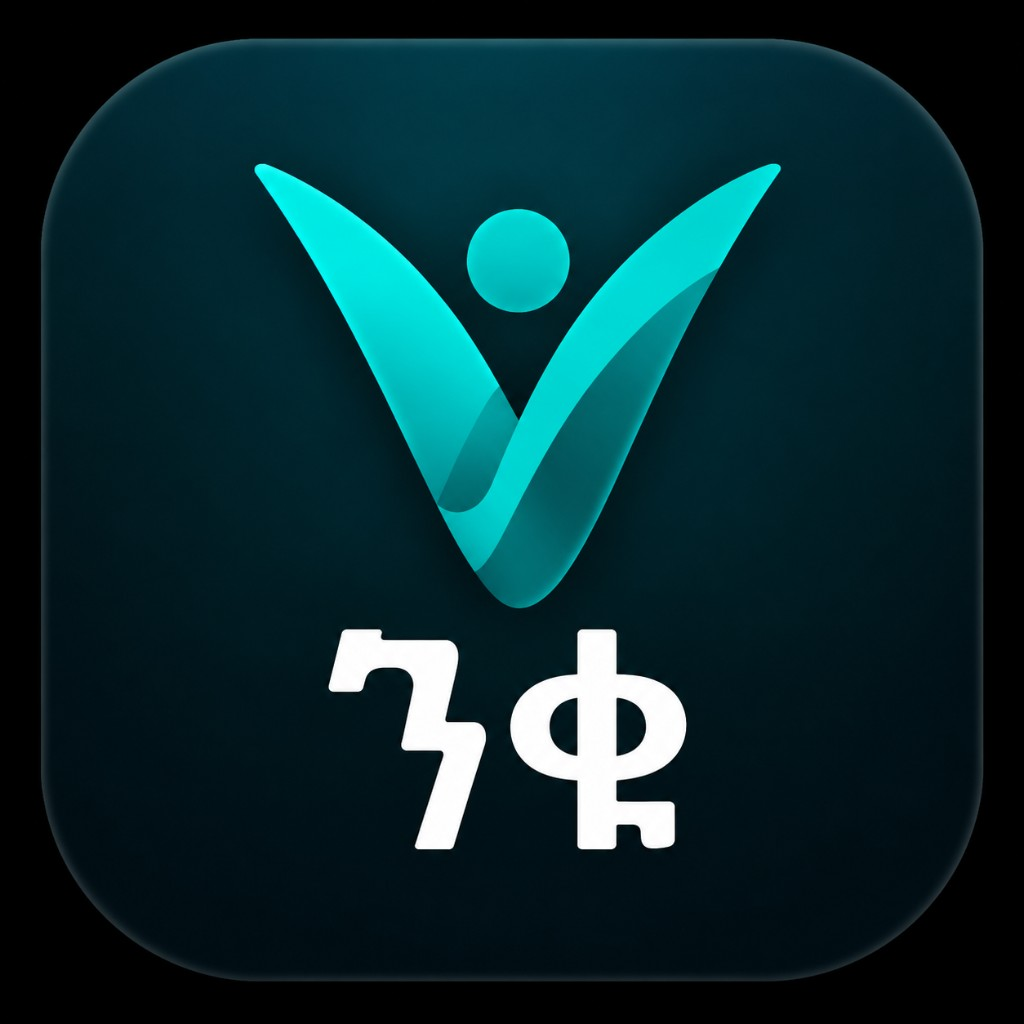
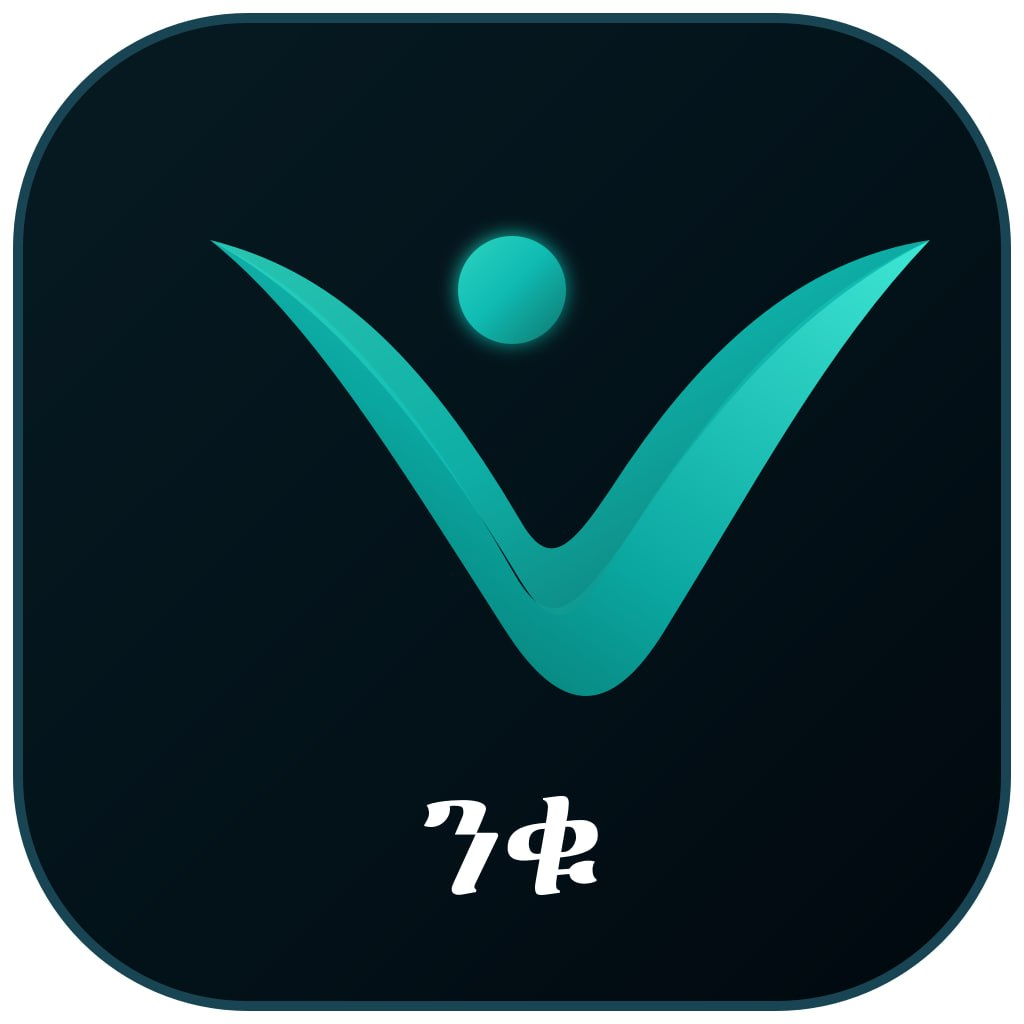
logo2

diff --git a/src/layouts/OwnerLayout.jsx b/src/layouts/OwnerLayout.jsx
@@ -186,7 +186,7 @@ export default function OwnerLayout() {
               <X className="h-6 w-6" />
             </button>
             <div className="mb-8 mt-2">
-              <BrandLogo className="h-12 w-12 rounded-2xl" />
+              <BrandLogo className="h-12 w-12" />
             </div>
             <nav className="flex-1 space-y-1">
               {menuItems.map((item) => renderNavLink(item, () => setSidebarOpen(false)))}
@@ -197,7 +197,7 @@ export default function OwnerLayout() {
 
       <aside className={`fixed inset-y-0 left-0 z-30 hidden w-64 flex-col border-r border-slate-200 p-6 lg:flex ${sidebarSurface}`}>
         <div className="mb-8">
-          <BrandLogo className="h-12 w-12 rounded-2xl" />
+          <BrandLogo className="h-12 w-12" />
         </div>
         <nav className="flex-1 space-y-1">
           {menuItems.map((item) => renderNavLink(item, undefined))}

diff --git a/src/layouts/AdminLayout.jsx b/src/layouts/AdminLayout.jsx
@@ -142,7 +142,7 @@ export default function AdminLayout() {
               <X className="h-6 w-6" />
             </button>
             <div className="mb-8 mt-2">
-              <BrandLogo className="h-12 w-12 rounded-2xl" />
+              <BrandLogo className="h-12 w-12" />
             </div>
             <nav className="mb-auto space-y-1">
               {adminNavItems.map((item) => (
@@ -163,7 +163,7 @@ export default function AdminLayout() {
 
       <aside className={`fixed inset-y-0 left-0 z-30 hidden w-64 flex-col border-r border-slate-200 p-6 lg:flex ${sidebarSurface}`}>
         <div className="mb-8">
-          <BrandLogo className="h-12 w-12 rounded-2xl" />
+          <BrandLogo className="h-12 w-12" />
         </div>
         <nav className="space-y-1">
           {adminNavItems.map((item) => (

diff --git a/index.html b/index.html
@@ -2,9 +2,9 @@
 <html lang="en">
   <head>
     <meta charset="UTF-8" />
-    <link rel="icon" type="image/png" sizes="64x64" href="/favicon.png?v=niku" />
-    <link rel="icon" type="image/png" sizes="32x32" href="/favicon-32.png?v=niku" />
-    <link rel="apple-touch-icon" href="/apple-touch-icon.png?v=niku" />
+    <link rel="icon" type="image/png" sizes="64x64" href="/favicon.png?v=1024" />
+    <link rel="icon" type="image/png" sizes="32x32" href="/favicon-32.png?v=1024" />
+    <link rel="apple-touch-icon" href="/apple-touch-icon.png?v=1024" />
     <meta name="viewport" content="width=device-width, initial-scale=1.0, viewport-fit=cover" />
     <meta name="theme-color" content="#f8fafc" />
     <meta name="mobile-web-app-capable" content="yes" />

diff --git a/src/components/auth/LoginBrandPanel.jsx b/src/components/auth/LoginBrandPanel.jsx
@@ -1,10 +1,10 @@
 export default function LoginBrandPanel() {
   return (
-    <div className="mb-5 flex flex-col items-center text-center animate-in fade-in duration-500">
+    <div className="mb-6 flex flex-col items-center text-center animate-in fade-in duration-500">
       <img
-        src="/app-icon.png"
+        src="/app-icon.png?v=1024"
         alt="ንቁ"
-        className="h-24 w-24 rounded-[1.35rem] object-cover shadow-lg ring-1 ring-white/10 sm:h-28 sm:w-28 sm:rounded-[1.5rem]"
+        className="h-24 w-24 rounded-[22%] object-cover shadow-lg sm:h-28 sm:w-28"
       />
     </div>
   );

diff --git a/src/components/BrandLogo.jsx b/src/components/BrandLogo.jsx
@@ -1,13 +1,12 @@
 /**
- * Brand mark — Niku app icon (V + ንቁ).
- * Pass className to size (e.g. h-12 w-12 rounded-2xl).
+ * Brand mark — 1024 Niku app icon.
  */
 export default function BrandLogo({ className = '', imgClassName = '' }) {
   return (
     <img
-      src="/app-icon.png"
+      src="/app-icon.png?v=1024"
       alt="ንቁ"
-      className={`h-10 w-10 rounded-xl object-cover ${imgClassName} ${className}`}
+      className={`h-10 w-10 rounded-[22%] object-cover ${imgClassName} ${className}`}
     />
   );
 }
